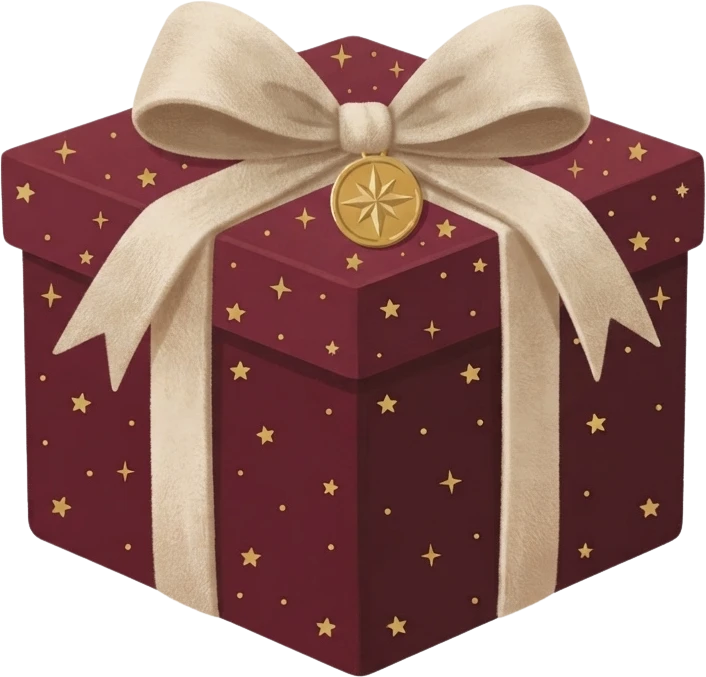
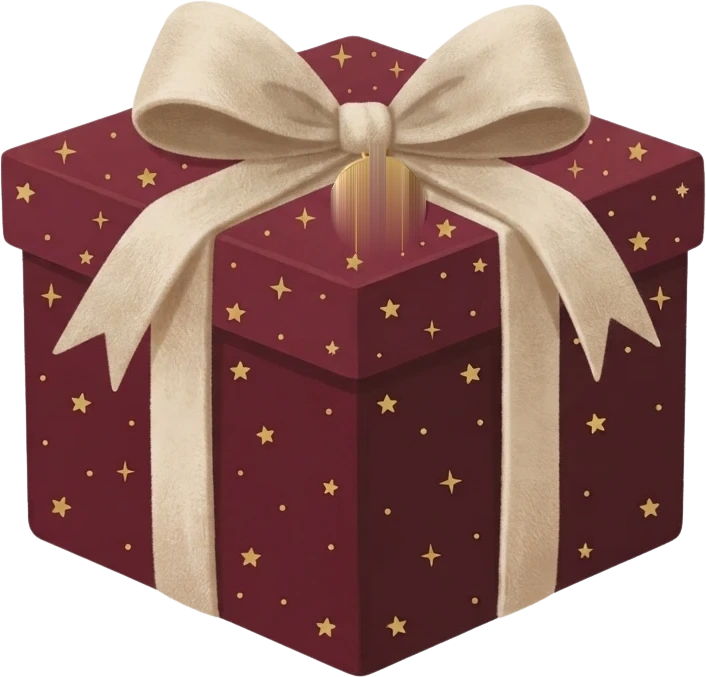
Amore Christmas served as WOFF2 / WOFF (iPhone Safari did not load the file announced as "opentype": it has TrueType outlines), so the Christmas Amsterdam titles show in it everywhere. Christmas Paris: the golden medallion hangs from the bow and swings and jingles with the box

Changed region(s): [[0.4674, 0.2171, 0.6232, 0.3722]]

diff --git a/app/templates/christmas-gift.css b/app/templates/christmas-gift.css
@@ -1,6 +1,6 @@
 /* The Christmas gift invitation: its cover (components/invitation/GiftCover.tsx). A present wobbles every two seconds under a rising magic shine;
    tapped, it wobbles faster, whirls and grows until it fills the screen, then vanishes. */
-@font-face { font-family:"Amore Christmas"; src:url(/fonts/AmoreChristmas.otf) format("opentype"); font-display:swap; }
+@font-face { font-family:"Amore Christmas"; src:url(/fonts/AmoreChristmas.woff2) format("woff2"), url(/fonts/AmoreChristmas.woff) format("woff"), url(/fonts/AmoreChristmas.otf) format("truetype"); font-display:swap; } /* the file has TrueType outlines: iPhone Safari refused it when it was announced as "opentype"; woff2 first, which every browser reads */
 .gc { --ink:#5a1420; --gold:#b8924a; position:relative; width:100%; height:100%; min-height:100svh; overflow:hidden; display:flex; flex-direction:column; align-items:center; justify-content:center;
   background:linear-gradient(to top, #e7f1f7 0%, #eef5f9 55%, #f8fbfd 100%); /* soft blue, a little whiter towards the top */ color:var(--ink); text-align:center; padding:24px 16px; box-sizing:border-box; user-select:none; -webkit-tap-highlight-color:transparent; }
 .gc-top { margin:0; font-family:var(--font-lora), Georgia, serif; font-weight:600; font-size:16px; letter-spacing:.28em; text-transform:uppercase; color:#7e8997; }
@@ -816,3 +816,4 @@ html:has(.gx-stage) { overflow:hidden; scrollbar-width:none; } html:has(.gx-stag
 .gs-pg-mankid .gs-mk-arm { animation:gs-mk-wave 2.4s ease-in-out infinite; }
 @keyframes gs-mk-wave { 0%, 50%, 100% { rotate:0deg; } 58% { rotate:-16deg; } 66% { rotate:6deg; } 74% { rotate:-14deg; } 82% { rotate:5deg; } 90% { rotate:-8deg; } }
 @media (prefers-reduced-motion: reduce) { .gs-pg-mankid .gs-mk-arm { animation:none; } }
+.gx-paris .gc-bell { left:46.46%; top:21.57%; width:14.02%; transform-origin:50% 7%; } /* Christmas Paris: the golden medallion hangs from the bow and swings and jingles with the box, like the Amsterdam bell */

diff --git a/components/invitation/CozyCity.tsx b/components/invitation/CozyCity.tsx
@@ -85,7 +85,7 @@ export function CozyCity({ content, rsvpSlug, calendarHref, fill = true, startOp
   const view = (
     <div className={`gx-screen gx-${variant}`}>
       {!open ? (
-        <div className="gx-page"><GiftCover img={variant === "paris" ? "/templates/christmas-paris/v1/gift.webp" : `${IMG}/gift.webp`} bell={variant === "paris" ? undefined : `${IMG}/bell.webp`} onOpen={() => setOpen(true)} onTap={startMusic} starDots={variant === "paris"} top={czText(content.texts as unknown as Record<string, string>, "czCoverTop")} title={czText(content.texts as unknown as Record<string, string>, "czCoverTitle", variant === "paris" ? "a Christmas Invitation" : undefined)} hint={czText(content.texts as unknown as Record<string, string>, "czCoverHint")} /></div>
+        <div className="gx-page"><GiftCover img={variant === "paris" ? "/templates/christmas-paris/v1/gift.webp" : `${IMG}/gift.webp`} bell={variant === "paris" ? "/templates/christmas-paris/v1/medal.webp" : `${IMG}/bell.webp`} onOpen={() => setOpen(true)} onTap={startMusic} starDots={variant === "paris"} top={czText(content.texts as unknown as Record<string, string>, "czCoverTop")} title={czText(content.texts as unknown as Record<string, string>, "czCoverTitle", variant === "paris" ? "a Christmas Invitation" : undefined)} hint={czText(content.texts as unknown as Record<string, string>, "czCoverHint")} /></div>
       ) : (
         <div className="gx-page gx-in">
           <GiftStreet variant={variant} text={cozyCityText(content)} calendarHref={calendarHref} page={screen && screen !== "cover" ? PAGE_OF[screen] : undefined} rsvp={{ slug: rsvpSlug, deadline: content.rsvp.deadline, maxParty: content.rsvp.maxParty, email: content.rsvp.email, labels: { food: content.texts.rsvpFoodLabel } }} />
